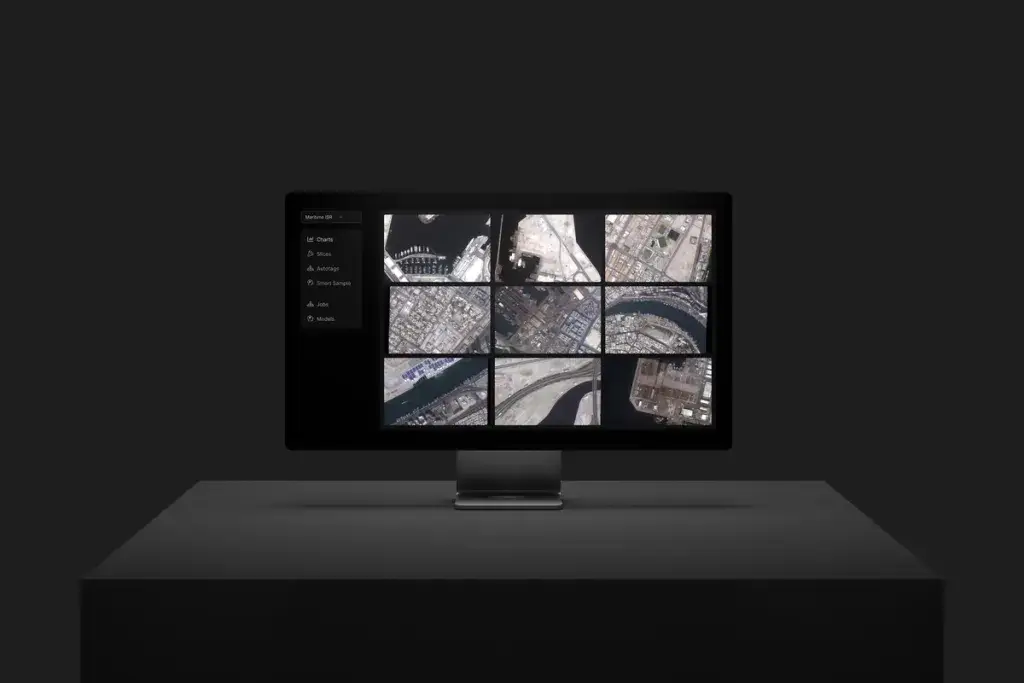
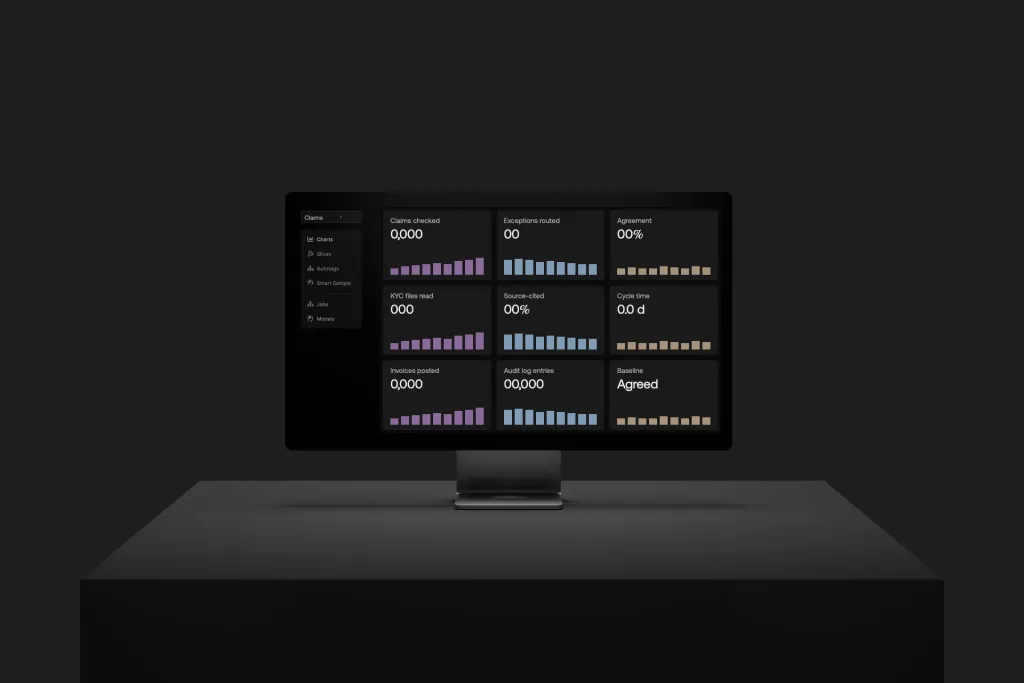
Fill /evaluation/public-sector with research copy

Changed region(s): [[0.375, 0.3075, 0.7188, 0.6457]]

diff --git a/components/pages/evaluation-public-sector/content.ts b/components/pages/evaluation-public-sector/content.ts
@@ -1,0 +1,80 @@
+// Filled copy for "For Regulated Teams" (finance, insurance, healthcare B2B), same shape as content.scale.ts. Keep first: Scale's string stays unless it is
+// false for Vahue, brand words swap, and government or Super Intelligence content becomes the regulated-team job in the same slot. `// PLACEHOLDER` marks what Vahue can't claim yet.
+import type { EvaluationPublicSectorContent } from './types'
+
+const WHITE = { tailwindClass: 'white', contrastColor: '#010101' }
+const A = '/evaluation-public-sector'
+
+export const content: EvaluationPublicSectorContent = {
+  meta: {
+    title: 'AI Evaluation for Regulated Teams | Vahue',
+    description: 'Evaluate AI models for safety, performance, and reliability with Vahue Evaluation. Understand model limits and monitor deployments with confidence.',
+  },
+  hero: {
+    headline: 'Regulated Teams Test & Evaluation',
+    body: 'Test and evaluate AI for safety, performance, and reliability.',
+    cta: { text: 'Book a Demo', url: '/demo' },
+    secondaryCta: { text: 'Learn more', url: '/public-sector/national-security' },
+    backdrop: WHITE,
+    image: { path: `${A}/hero-filled.webp` },
+  },
+  logos: {
+    copy: "Trusted by the world's most ambitious AI teams.", // PLACEHOLDER
+    link: { title: 'Meet our customers', href: '/enterprise' },
+    items: [
+      { alt: 'Logo', width: 79, height: 22 }, // PLACEHOLDER
+      { alt: 'Logo', width: 65, height: 45 }, // PLACEHOLDER
+    ],
+  },
+  techniques: {
+    overtitle: 'Evaluate Agents and AI Systems',
+    title: 'Test Diverse AI Techniques',
+    subtitle: 'Regulated Test & Evaluation for Document Intake and Large Language Models.',
+    items: [
+      { title: 'Document Intake', description: 'Measures performance and errors on claims, invoices, and KYC.', image: `${A}/computer-vision-filled.webp` },
+      { title: 'Generative AI', description: 'Minimize safety risks through evaluating model skills and knowledge.', image: `${A}/generative-ai-filled.webp` },
+    ],
+  },
+  why: {
+    overtitle: 'Why Test & Evaluate AI',
+    title: 'Why Test & Evaluate AI',
+    subtitle: 'Protect the rights and data of your customers. Ensure AI is trusted for critical decisions and workflows.',
+    items: [
+      { icon: 'certainty', title: 'Rollout AI with Certainty', subtitle: 'Have confidence that AI is trustworthy, safe, and meets benchmarks' },
+      { icon: 'ongoing', title: 'Ongoing Evaluation', subtitle: 'Continuously evaluate your AI models for safe updates and perpetual use' },
+      { icon: 'vulnerabilities', title: 'Uncover model vulnerabilities', subtitle: 'Simulate real-world context to mitigate unwanted bias, hallucinations, and exploits' },
+    ],
+  },
+  methodology: {
+    overtitle: 'How We Evaluate',
+    title: 'Test & Evaluation Methodology',
+    subtitle: 'Trusted by insurers, lenders, and leading healthcare organizations.', // PLACEHOLDER
+    listTitle: 'Advanced Knowledge Retrieval and Agent Evaluation Tools',
+    features: [
+      { title: 'Holistic evaluation that assesses AI capabilities and determines levels of AI safety', description: '' },
+      { title: 'Leverage human experts and automated benchmarks to scalably and accurately evaluate models', description: '' },
+      { title: 'Flexible evaluation framework to adapt to changes in regulation, use-cases, and model updates', description: '' },
+    ],
+    image: { src: `${A}/methodology-filled.png`, alt: 'Test and Evaluation Methodology', width: 644, height: 430, mockup: true, mockupUrl: 'evals.vahue.ai' }, // PLACEHOLDER (host in the mock browser bar)
+    cta: { text: 'Read more', href: '/blog' },
+  },
+  platform: {
+    overtitle: 'Why Vahue',
+    title: 'Test & Evaluate AI Systems with Vahue Evaluation',
+    subtitle: 'Vahue Evaluation is a platform encompassing the entire test & evaluation process, enabling real-time insights on performance and risks to ensure AI systems are safe.',
+    cards: [
+      { icon: 'sets', title: 'Bespoke Agent & AI Evaluation Sets', description: 'Unique, high-quality evaluation sets across domains and capabilities ensure accurate model assessments without overfitting.' },
+      { icon: 'targeted', title: 'Targeted Evaluations', description: 'Custom evaluation sets focus on specific model concerns, enabling precise improvements via new training data.' },
+      { icon: 'rater', title: 'Rater Quality', description: 'Expert human raters provide reliable evaluations, backed by transparent metrics and quality assurance mechanisms.' },
+      { icon: 'product', title: 'Product Experience', description: 'User-friendly interface for analyzing and reporting on model performance across domains, capabilities, and versioning.' },
+      { icon: 'reporting', title: 'Reporting Consistency', description: 'Enables standardized model evaluations for true apples-to-apples comparisons across models.' },
+      { icon: 'redteam', title: 'Red-teaming Platform', description: 'Prevent GenAI risk or algorithmic discrimination by simulating adversarial prompts and exploits.' },
+    ],
+  },
+  prefooter: {
+    headline: 'Enable AI safety today!',
+    cta: { text: 'Book a Demo', url: '/demo' },
+    backdrop: { tailwindClass: 'gray-50', contrastColor: '#010101' },
+    image: { path: `${A}/prefooter.webp` },
+  },
+}

diff --git a/app/evaluation/public-sector/page.tsx b/app/evaluation/public-sector/page.tsx
@@ -1,5 +1,5 @@
 import type { Metadata } from 'next'
-import { content } from '@/components/pages/evaluation-public-sector/content.scale'
+import { content } from '@/components/pages/evaluation-public-sector/content'
 import { EvaluationPublicSectorPage } from '@/components/pages/evaluation-public-sector/EvaluationPublicSectorPage'
 
 export const metadata: Metadata = { title: content.meta.title, description: content.meta.description }

diff --git a/docs/specs/evaluation-public-sector.md b/docs/specs/evaluation-public-sector.md
@@ -1,0 +1,61 @@
+# /evaluation/public-sector
+
+Live source: https://scale.com/evaluation/public-sector, 2026-11-01. Menu label here: **For Regulated Teams** (finance, insurance, healthcare B2B), per Mike's 22:46 direction. Scale's structure and motion are kept; government and Super Intelligence content is replaced in the same slots. Stack: [../stack.md](../stack.md), chrome: [_chrome.md](_chrome.md).
+
+Files: `app/evaluation/public-sector/page.tsx`, `components/pages/evaluation-public-sector/` (`EvaluationPublicSectorPage.tsx`, `content.ts`, `content.scale.ts`, `icons.ts`, `types.ts`). New in `components/site/shared`: `FeatureCards.tsx`, `NewButtonLink.tsx` (+ CSS module), `BrowserFrame.tsx`; `ChecklistWithMedia.tsx` gained the `mockup` branch.
+
+## Stack on this page
+The page's RSC payload loads these client modules: 243385 PageThemeSetter, 478135 hero (non-globe branch, wraps 540431), 970272 LogoCloud, 15518 FeatureCards, 460138 FeaturesWithIcons, 872447 ChecklistWithMedia with 720912 browser frame, 408298 NewButtonLink, 540431 FullBleedMediaSection. No WebGL scene renders: 478135 only mounts the globe for `media[0]._type === 'meshGlobe'`, and this page passes an image. REA `analyze_web_bundle`: 58 of 58 scripts parsed.
+
+## Sections
+Heights in px, Scale and ours equal within 1.5 at 1920, 1440, 1280, 1023, 768, 767, 640 and 390.
+
+| # | Section | Module | 1440 top, height | 390 top, height | Changes with width |
+|---|---|---|---|---|---|
+| 1 | Hero, `pt-24 pb-10` | 478135 > 540431 | 135.3, 720 | 197.8, 480 | Media 720 to 480 tall below `md`; CTAs stack below `md` |
+| 2 | Logos, `!py-12` | 970272 | 895.3, 222.4 | 717.8, 241.8 | Row from `md`, marquee below it |
+| 3 | Test Diverse AI Techniques, `!py-16` | 1900 markup, 15518 | 1117.6, 806.4 | 959.5, 1324.1 | 2 columns from `md` |
+| 4 | Why Test & Evaluate AI, `!py-16` | 1900 markup, 460138 | 1924.1, 560 | 2283.6, 978 | Flex wrap, 3 across from `lg` |
+| 5 | Methodology, `!py-16` | 1900 markup, 872447, 720912, 408298 | 2484.1, 856.3 | 3261.6, 1196.7 | Row from `md`, stacked below it |
+| 6 | Why Vahue cards, `!py-16` | 1900 markup, article grid | 3340.3, 1096 | 4458.3, 2434.1 | 1, 2 from `md`, 3 from `lg` |
+| 7 | Pre-footer, `mt-16 pb-8` | 540431 | 4500.3, 720 | 6956.5, 480 | Same as hero |
+
+## Interaction inventory
+
+| Element | Input | Listener and REA evidence | Source | Params | Measured, Scale vs ours |
+|---|---|---|---|---|---|
+| Section roots, `figure`, `article`, marquee container | none | 0 direct listeners: `ev_0010ae9c…` (hero), `ev_ab4bcd16…` (logos), `ev_27e7d691…` (`!py-16`), `ev_ef6c0c55…` (figure), `ev_896c29f8…` (article), `ev_a6629b69…` (marquee), `ev_ddc93530…` (main) | | No hover state on cards | Same |
+| `html`, `body` | click, keydown, scroll, touchstart | `ev_21d99931…`: scroll from `1h0nvyhf5gbrf.js`, keydown and 2 click from OneTrust `otBannerSdk.js`. `ev_a9a76f44…`: touchstart from `1h0nvyhf5gbrf.js` | GSAP ScrollTrigger and Observer in the shared runtime; OneTrust | Scroll cache and pointer flag, no page logic | OneTrust not built (see `_chrome.md`) |
+| Links in main | click, mousedown | `ev_23bae036…`, `ev_651fab67…`, `ev_10fb4951…`, `ev_6902584f…`: capture mousedown from `hs-analytics`, click from `42ixmvih7808g.js` (React) | HubSpot analytics, not built | No page logic | Navigation same |
+| Images in `!py-16` | load, error | `ev_4f5f3bc6…`: `next/image` | 42ixmvih7808g | | Same |
+| Hero headline, body | scroll into view, load | Reading module 540431; `useInViewTrigger` `top center`, retroactive | 540431, 947153 | AnimatedText, delay .2 x index | Shared port, already verified on `/about` |
+| Hero CTAs | intro | 961870 | 540431 | Opacity .85s, delay .5 | 1440: 0, .215, .743, .909, .985, 1 vs 0, .537, .823, .951, .994, 1 at unaligned sample times, same shape. 390: 0, .005, .801, .95, .994 vs 0, 0, .447, .78, .942. Scale's start moves with its `load` time: in one earlier 390 run its intro had already finished by the first sample |
+| Hero media | scroll | `useScrubTrigger` `top bottom` to `center center` | 540431 | Scale 1.25 to 1 | Rest 1.0139 at 1440 and 1.006 at 390 on first paint, equal; 1 from the first wheel stage, equal |
+| Hero, pre-footer clip | scroll | 656598 | 540431 | Hero `startPercentage` 0; pre-footer 10 default, radius 1.5rem | Pre-footer inset 5%, 2.228%, 0 at 1440 and 3.353%, .166%, 0 at 390, equal |
+| Pre-footer media | scroll | Same scrub | 540431 | 1.25 to 1 | 1.25, 1.1114, 1 at 1440; 1.1677, 1.0083, 1 at 390, equal |
+| Primary CTA | hover (clone run) | 892855 | 961870 | Fill, arrow slide, label | Arrow -61.20, -34.81, -18.19, -7.84 vs -61.22, -34.80, -18.18, -7.83 |
+| Secondary CTA | hover (clone run) | 892855 | 961870 | Border fill | Leave -61.64 vs -61.62; enter 38.4, 9.2 vs 31.5, 6.6, read as sample phase, not re-sampled at a finer step |
+| Meet our customers | hover (clone run) | CSS | 970272 | Arrow translate-x-1, 300ms ease-out | 2.741, 3.736 vs 2.740, 3.736 |
+| Read more | hover (clone run) | CSS | 408298 | Background `#333` to `#000`, arrow translate-x-1, .3s | 49, 17, 3 vs 51, 22, 4 and 2.66, 3.80 vs 2.30, 3.70: same curve, sample phase |
+| Read more | keyboard focus | CSS | 408298 | Solid 1px, `rgba(255,255,255,.64)`, offset 3px, radius 12px | Equal |
+| Logo marquee | below `md`, time | CSS animation | 922998 | 50px/s, no pause | Runs; positions at a moment differ with load time |
+| Lenis wheel | wheel | Shared | 2d7ykwtxp | lerp .14, multiplier .8 | 12 stages at 1440: 449, 900, 1349 … 5250, equal in the final filled run |
+
+`observe_web_execution` during real input (2 CTA hovers, 28 wheel steps, 1 button hover, final scrollY 5250): `ev_24f8f990acdc015966db271c9fddf88e555b664b8d7e50e1af5ec4006dc408fc`, one-tab headless Chrome on its own port. The record is over MCP's 10 MB response limit and was not exported, so its coverage ranges were not read: the handlers above come from reading the modules. Two earlier windows, `ev_252c1166…` and `ev_ddbfccd9…`, hold no input (background tab on 9230 ignores it) and should be ignored. `analyze_web_bundle`: `ev_ea107c8d…`. `capture_browser_scenario` was not run; `observe_web_execution` covered the requirement. No source maps ship, so `trace_web_source_location` does not apply.
+
+## Filled copy and images
+52 strings: 31 unchanged (60%), 16 changed by a few words (11 of them only Scale to Vahue or SI to AI), 5 rewritten for the regulated segment or to drop RAG from a heading. Below the 80% target because Scale's page repeats SI and government; counting the 11 brand and SI swaps as kept, 42 of 52 (81%).
+
+Images: `hero-filled.webp` replaces the satellite grid and "Maritime ISR" with a neutral case dashboard whose values are zeros; `computer-vision-filled.webp` and `generative-ai-filled.webp` swap the wordmark; `methodology-filled.png` removes the product mark; `public/site/nav/evaluation-public-sector.webp` is the new hero, same 1024 x 683.
+
+Links: `/customers` has no route, so "Meet our customers" goes to `/enterprise`. The white paper has no route, so "Read more" goes to `/blog`. "Learn more" goes to `/public-sector/national-security` (Regulated Industries).
+
+## Placeholders
+5 lines with `// PLACEHOLDER`: "Trusted by" line, 2 logo tiles, "Trusted by insurers, lenders…", mock browser host `evals.vahue.ai`.
+
+## Gaps
+- **Font:** Aeonik, not Aeonik Pro, per stack.md. At 1024 one card description in row 1 wraps one line earlier on Scale, so that row is 332.4 vs 310 and the page 22.4 shorter. "Meet our customers" and "Read more" are about 5px wider because the Aeonik arrow is wider.
+- **Footer at 768:** 7px shorter than Scale from shared footer copy, not this page.
+- **Not driven:** `oml:` landscape. At 390 the stages used `scrollTo` in a touch context, not touch or wheel input. Side-by-side sheets exist for 1440 and 390; the other seven widths were compared by numbers only.
+- **Filled run hover:** the final run only counted identical samples (9 of 16 customers link, 10 of 16 Read more, 3 of 16 primary CTA, 0 of 16 article, where every difference on the article is `lab` vs `oklab` serialisation of the same colour). Per-frame values above are from the clone run. The hover code and classes did not change between them.
+- **Scale originals:** `public/evaluation-public-sector/hero.webp` (satellites) and `logos/` (CDAO, White House) remain only for `content.scale.ts`.
